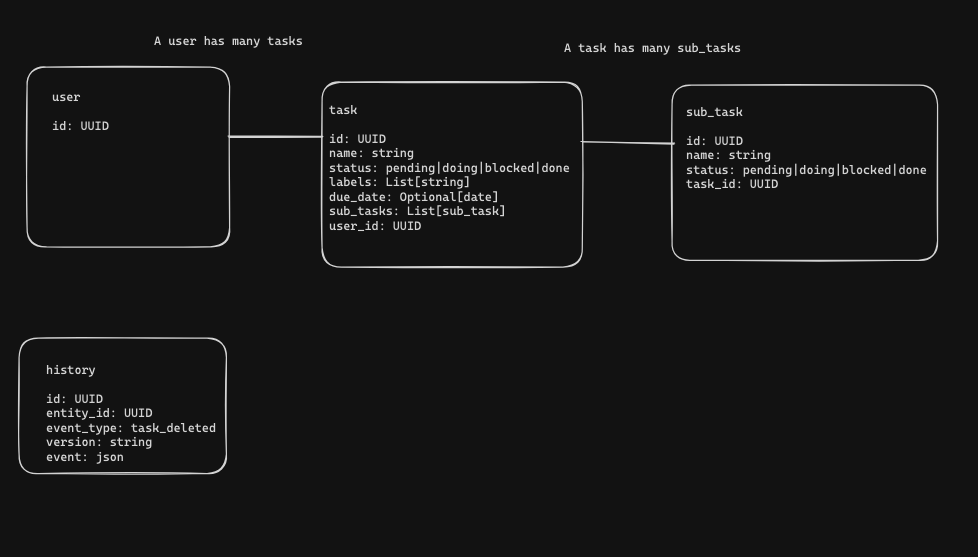
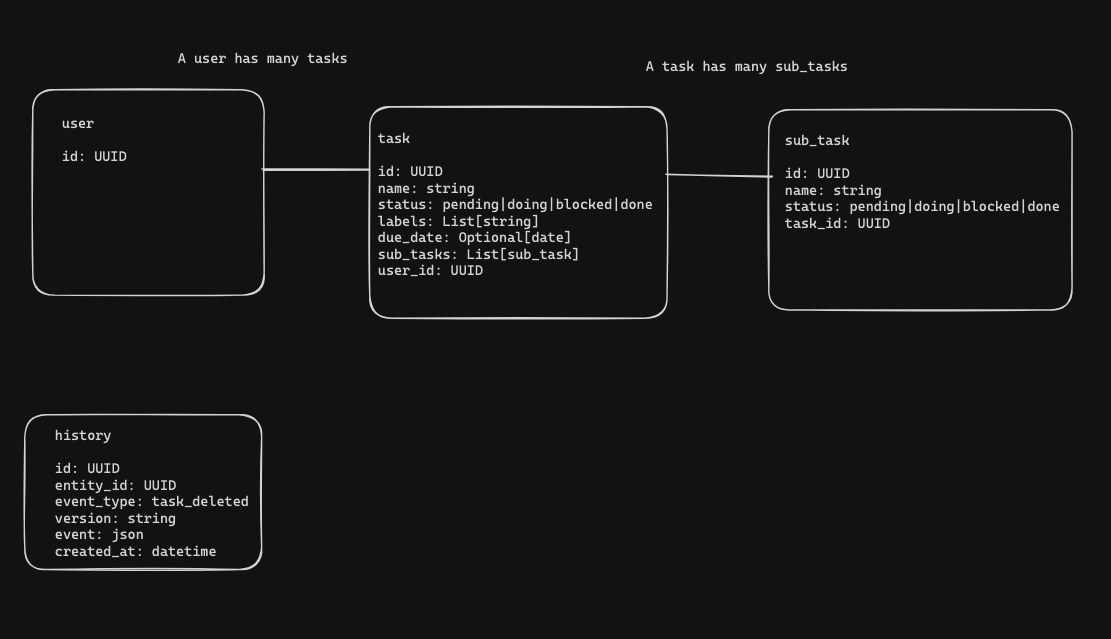
Create History table with migration and allow the last history entry to be retrieved for a deleted task
- add TaskManager.get_last_history_entry to allow for testing that deleted Tasks are put there  for both TaskManagers
- implement SqliteTaskmanager.delete_task
- create HistoryEntity and migration for creating HistoryEntity
- move HistoryEntry domain models to domain/models.py
- Add entity_id to original history model design to allow use of history table in the future by other entities
- Add created_at to original history model design to allow for sorting of history entries
- Fixed bug where InMemoryTaskManager would return the first deleted task instead of the task with a given id
- Fix issue where alembic was creating task.db in wrong directory

diff --git a/app/domain/task_managers.py b/app/domain/task_managers.py
@@ -1,15 +1,22 @@
 import abc
+import datetime
+import json
 from contextlib import AbstractContextManager
-from enum import Enum
-from typing import Any, Callable, cast, Dict, List, Optional
+from typing import Callable, cast, Dict, List, Optional
 from uuid import UUID, uuid4
 
-from pydantic import BaseModel
 from sqlalchemy import delete, insert, select, update
 from sqlalchemy.orm import Session
 
-from app.entities import TaskEntity
-from app.domain.models import CreateTask, Task, UpdateTask
+from app.entities import HistoryEntity, TaskEntity
+from app.domain.models import (
+    CreateTask,
+    Task,
+    UpdateTask,
+    HistoryEntry,
+    HistoryEntryType,
+    HistoryEntryVersion,
+)
 
 
 class TaskManager(metaclass=abc.ABCMeta):
@@ -34,33 +41,26 @@ class TaskManager(metaclass=abc.ABCMeta):
     def delete_task(self, task_id: UUID, user_id: UUID) -> Optional[Task]:
         pass
 
-
-class HistoryEntryType(Enum):
-    TASK_DELETED = "TASK_DELETED"
-
-
-class HistoryEntryVersion(Enum):
-    TASK = "Task"
-
-
-class HistoryEntry(BaseModel):
-    id: UUID
-    type: HistoryEntryType = (HistoryEntryType.TASK_DELETED,)
-    version: HistoryEntryVersion
-    event: Any
+    @abc.abstractmethod
+    def get_last_history_entry(
+        self, task_id: UUID, user_id: UUID
+    ) -> Optional[HistoryEntry]:
+        pass
 
 
 class InMemoryTaskManager(TaskManager):
     tasks: Dict[UUID, Dict[UUID, Task]]
-    history: List[HistoryEntry] = []
+    history: Dict[UUID, Dict[UUID, List[HistoryEntry]]] = {}
 
     def __init__(
-        self, tasks: Dict[UUID, Task] = None, history: List[HistoryEntry] = None
+        self,
+        tasks: Dict[UUID, Task] = None,
+        history: Dict[UUID, Dict[UUID, List[HistoryEntry]]] = None,
     ):
         if tasks is None:
             tasks = {}
         if history is None:
-            history = []
+            history = {}
         self.tasks = tasks
         self.history = history
 
@@ -114,16 +114,34 @@ class InMemoryTaskManager(TaskManager):
 
         deleted_task = user_tasks.pop(task_id, None)
 
-        self.history.append(
-            HistoryEntry(
-                id=deleted_task.id,
-                type=HistoryEntryType.TASK_DELETED,
-                version=HistoryEntryVersion.TASK,
-                event=deleted_task.model_dump_json(),
-            )
+        history_entry = HistoryEntry(
+            id=uuid4(),
+            entity_id=task_id,
+            type=HistoryEntryType.TASK_DELETED,
+            version=HistoryEntryVersion.TASK,
+            event=deleted_task.model_dump_json(),
+            created_at=datetime.datetime.now(),
         )
 
+        if user_id not in self.history or task_id not in self.history.get(user_id):
+            self.history.update({user_id: {task_id: [history_entry]}})
+        else:
+            self.history.get(user_id).get(task_id).append(history_entry)
+
         return deleted_task
+
+    def get_last_history_entry(
+        self, task_id: UUID, user_id: UUID
+    ) -> Optional[HistoryEntry]:
+        user_history = self.history.get(user_id)
+        if user_history is None:
+            return None
+        if task_id not in user_history:
+            return None
+
+        return sorted(
+            user_history.get(task_id), key=lambda entry: entry.created_at, reverse=True
+        )[0]
 
 
 class SqliteTaskManager(TaskManager):
@@ -258,5 +276,59 @@ class SqliteTaskManager(TaskManager):
             result = session.execute(statement)
             if result.rowcount == 0:
                 return None
+
+            history_insert_statement = insert(HistoryEntity).values(
+                id=uuid4(),
+                entity_id=task_id,
+                type=HistoryEntryType.TASK_DELETED,
+                version=HistoryEntryVersion.TASK,
+                event=task_to_delete.model_dump_json(),
+                created_at=datetime.datetime.now(),
+            )
+            history_insert_result = session.execute(history_insert_statement)
+            if history_insert_result.rowcount == 0:
+                return None
+
             session.commit()
+
             return task_to_delete
+
+    def get_last_history_entry(
+        self, task_id: UUID, user_id: UUID
+    ) -> Optional[HistoryEntry]:
+        if user_id is None:
+            return None
+        with self.session_factory() as session:
+            statement = (
+                select(HistoryEntity)
+                .where(
+                    cast("ColumnElement[bool]", HistoryEntity.entity_id == task_id),
+                    cast(
+                        "ColumnElement[bool]",
+                        HistoryEntity.type == HistoryEntryType.TASK_DELETED,
+                    ),
+                )
+                .order_by(HistoryEntity.created_at.desc())
+            )
+            result = session.execute(statement)
+            history_entity: HistoryEntity = result.scalars().first()
+            if history_entity is None:
+                return None
+
+            history_entry = HistoryEntry(
+                id=history_entity.id,
+                entity_id=history_entity.entity_id,
+                type=history_entity.type,
+                version=history_entity.version,
+                event=history_entity.event,
+                created_at=history_entity.created_at,
+            )
+            # TODO: figure out how to dynamically restore the HistoryEntry.event based on the version
+            task_deleted_event = Task(
+                **json.loads(history_entry.model_dump().get("event"))
+            )
+
+            if task_deleted_event.user_id != user_id:
+                return None
+
+            return history_entry

diff --git a/app/tests/test_task_manager.py b/app/tests/test_task_manager.py
@@ -1,14 +1,18 @@
 import json
 from uuid import UUID, uuid4
-import pytest
 
 from app.domain.task_managers import (
+    TaskManager,
+)
+from app.domain.models import (
+    CreateTask,
+    Task,
+    UpdateTask,
+    TaskStatus,
     HistoryEntry,
     HistoryEntryType,
     HistoryEntryVersion,
-    TaskManager,
 )
-from app.domain.models import CreateTask, Task, UpdateTask, TaskStatus
 
 
 def test_create_task(task_manager: TaskManager, user_id_1: UUID) -> None:
@@ -128,9 +132,6 @@ def test_update_task_returns_none(
     )
 
 
-@pytest.mark.skip(
-    reason="Skipping this temporarily so that InMemoryTaskManager can be refactored to in a separate commit"
-)
 def test_delete_task(
     task_manager: TaskManager, user_id_1: UUID, user_id_2: UUID
 ) -> None:
@@ -146,13 +147,16 @@ def test_delete_task(
 
     assert deleted_task == task_to_be_deleted
     assert task_manager.get_task(task_to_be_deleted.id, user_id_1) is None
-    task_deleted = task_manager.history.pop()
+
+    task_deleted = task_manager.get_last_history_entry(task_to_be_deleted.id, user_id_1)
 
     assert task_deleted == HistoryEntry(
         id=task_deleted.id,
+        entity_id=task_to_be_deleted.id,
         type=HistoryEntryType.TASK_DELETED,
         version=HistoryEntryVersion.TASK,
         event=deleted_task.model_dump_json(),
+        created_at=task_deleted.created_at,
     )
 
     task_deleted_event = json.loads(task_deleted.model_dump().get("event"))
@@ -176,3 +180,39 @@ def test_delete_task_returns_none(
     assert task_manager.delete_task(created_task_1.id, user_id=user_id_3) is None
     assert task_manager.delete_task(created_task_1.id, user_id=user_id_2) is None
     assert task_manager.get_task(created_task_1.id, user_id_1) == created_task_1
+
+
+def test_get_last_history_entry_returns_none(
+    task_manager: TaskManager, user_id_1: UUID, user_id_2: UUID
+) -> None:
+    user_id_3 = uuid4()
+
+    created_task_1 = task_manager.create_task(
+        CreateTask(name="Dishes", user_id=user_id_1)
+    )
+    created_task_2 = task_manager.create_task(
+        CreateTask(name="Wash Clothes", user_id=user_id_2, status=TaskStatus.DOING)
+    )
+    created_task_3 = task_manager.create_task(
+        CreateTask(name="Cook", user_id=user_id_1)
+    )
+    task_manager.delete_task(created_task_1.id, user_id=user_id_1)
+    task_manager.delete_task(created_task_2.id, user_id=user_id_2)
+
+    assert (
+        task_manager.get_last_history_entry(created_task_1.id, user_id=user_id_3)
+        is None
+    )
+    assert (
+        task_manager.get_last_history_entry(created_task_1.id, user_id=user_id_2)
+        is None
+    )
+    history_entry = task_manager.get_last_history_entry(created_task_1.id, user_id_1)
+    assert history_entry == HistoryEntry(
+        id=history_entry.id,
+        entity_id=created_task_1.id,
+        type=HistoryEntryType.TASK_DELETED,
+        version=HistoryEntryVersion.TASK,
+        event=created_task_1.model_dump_json(),
+        created_at=history_entry.created_at,
+    )

diff --git a/alembic/versions/1601b134f56f_add_history_table.py b/alembic/versions/1601b134f56f_add_history_table.py
@@ -1,0 +1,44 @@
+"""Add History Table
+
+Revision ID: 1601b134f56f
+Revises: ba1a57082a3b
+Create Date: 2024-05-26 12:17:22.350501
+
+"""
+
+from typing import Sequence, Union
+
+from alembic import op
+import sqlalchemy as sa
+
+
+# revision identifiers, used by Alembic.
+revision: str = "1601b134f56f"
+down_revision: Union[str, None] = "ba1a57082a3b"
+branch_labels: Union[str, Sequence[str], None] = None
+depends_on: Union[str, Sequence[str], None] = None
+
+
+def upgrade() -> None:
+    # ### commands auto generated by Alembic - please adjust! ###
+    op.create_table(
+        "history",
+        sa.Column("id", sa.Uuid(), nullable=False),
+        sa.Column("entity_id", sa.Uuid(), nullable=False),
+        sa.Column(
+            "type", sa.Enum("TASK_DELETED", name="historyentrytype"), nullable=False
+        ),
+        sa.Column(
+            "version", sa.Enum("TASK", name="historyentryversion"), nullable=False
+        ),
+        sa.Column("event", sa.JSON(), nullable=False),
+        sa.Column("created_at", sa.DateTime(), nullable=False),
+        sa.PrimaryKeyConstraint("id"),
+    )
+    # ### end Alembic commands ###
+
+
+def downgrade() -> None:
+    # ### commands auto generated by Alembic - please adjust! ###
+    op.drop_table("history")
+    # ### end Alembic commands ###

diff --git a/app/entities.py b/app/entities.py
@@ -1,13 +1,15 @@
-from datetime import date
-from typing import Optional
+from datetime import date, datetime
+from typing import Any, Optional
 from uuid import UUID
+
+from sqlalchemy import JSON
 from sqlalchemy.orm import DeclarativeBase, Mapped, mapped_column
 
-from app.domain.models import TaskStatus
+from app.domain.models import HistoryEntryType, HistoryEntryVersion, TaskStatus
 
 
 class Base(DeclarativeBase):
-    pass
+    type_annotation_map = {dict[str, Any]: JSON}
 
 
 class TaskEntity(Base):
@@ -22,3 +24,14 @@ class TaskEntity(Base):
     # TODO: create a new model for sub tasks
     # sub_tasks: Mapped[List[Any]]
     user_id: Mapped[UUID]
+
+
+class HistoryEntity(Base):
+    __tablename__ = "history"
+    id: Mapped[UUID] = mapped_column(primary_key=True)
+    entity_id: Mapped[UUID] = mapped_column()
+
+    type: Mapped[HistoryEntryType]
+    version: Mapped[HistoryEntryVersion]
+    event: Mapped[dict[str, Any]]
+    created_at: Mapped[datetime]

diff --git a/app/domain/models.py b/app/domain/models.py
@@ -1,6 +1,6 @@
-from datetime import date
+from datetime import date, datetime
 from enum import Enum
-from typing import List, Optional
+from typing import Any, List, Optional
 from uuid import UUID
 
 from pydantic import BaseModel
@@ -39,3 +39,20 @@ class UpdateTask(BaseModel):
     labels: List[str]
     due_date: Optional[date]
     sub_tasks: List
+
+
+class HistoryEntryType(Enum):
+    TASK_DELETED = "TASK_DELETED"
+
+
+class HistoryEntryVersion(Enum):
+    TASK = "Task"
+
+
+class HistoryEntry(BaseModel):
+    id: UUID
+    entity_id: UUID
+    type: HistoryEntryType = (HistoryEntryType.TASK_DELETED,)
+    version: HistoryEntryVersion
+    event: Any
+    created_at: datetime
